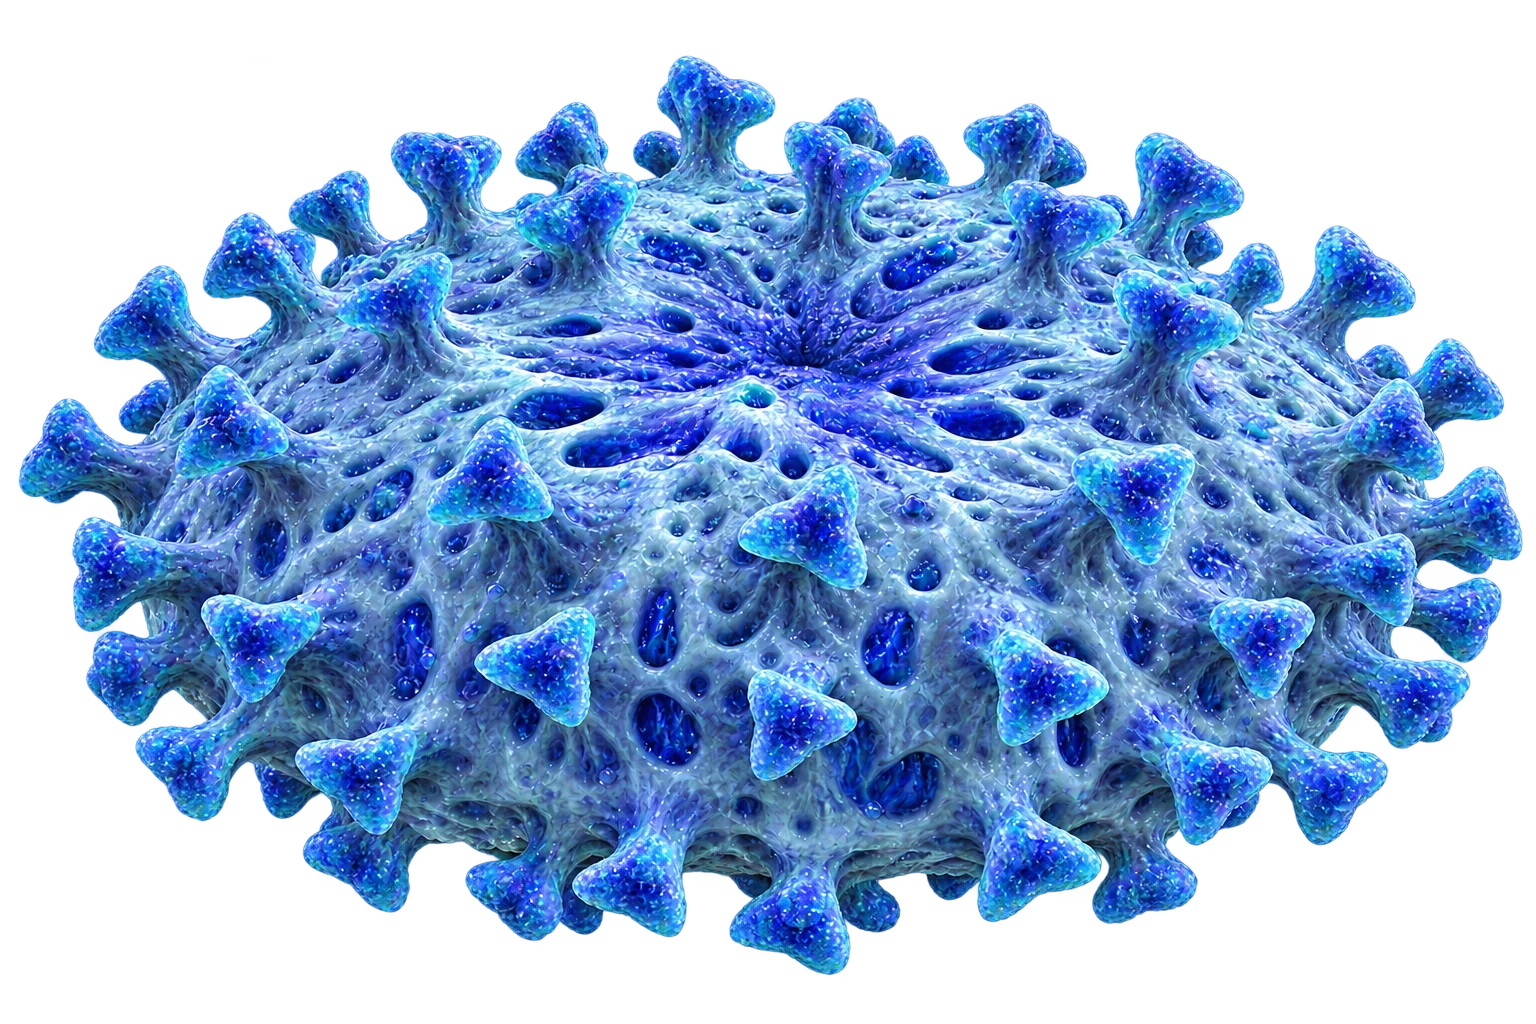
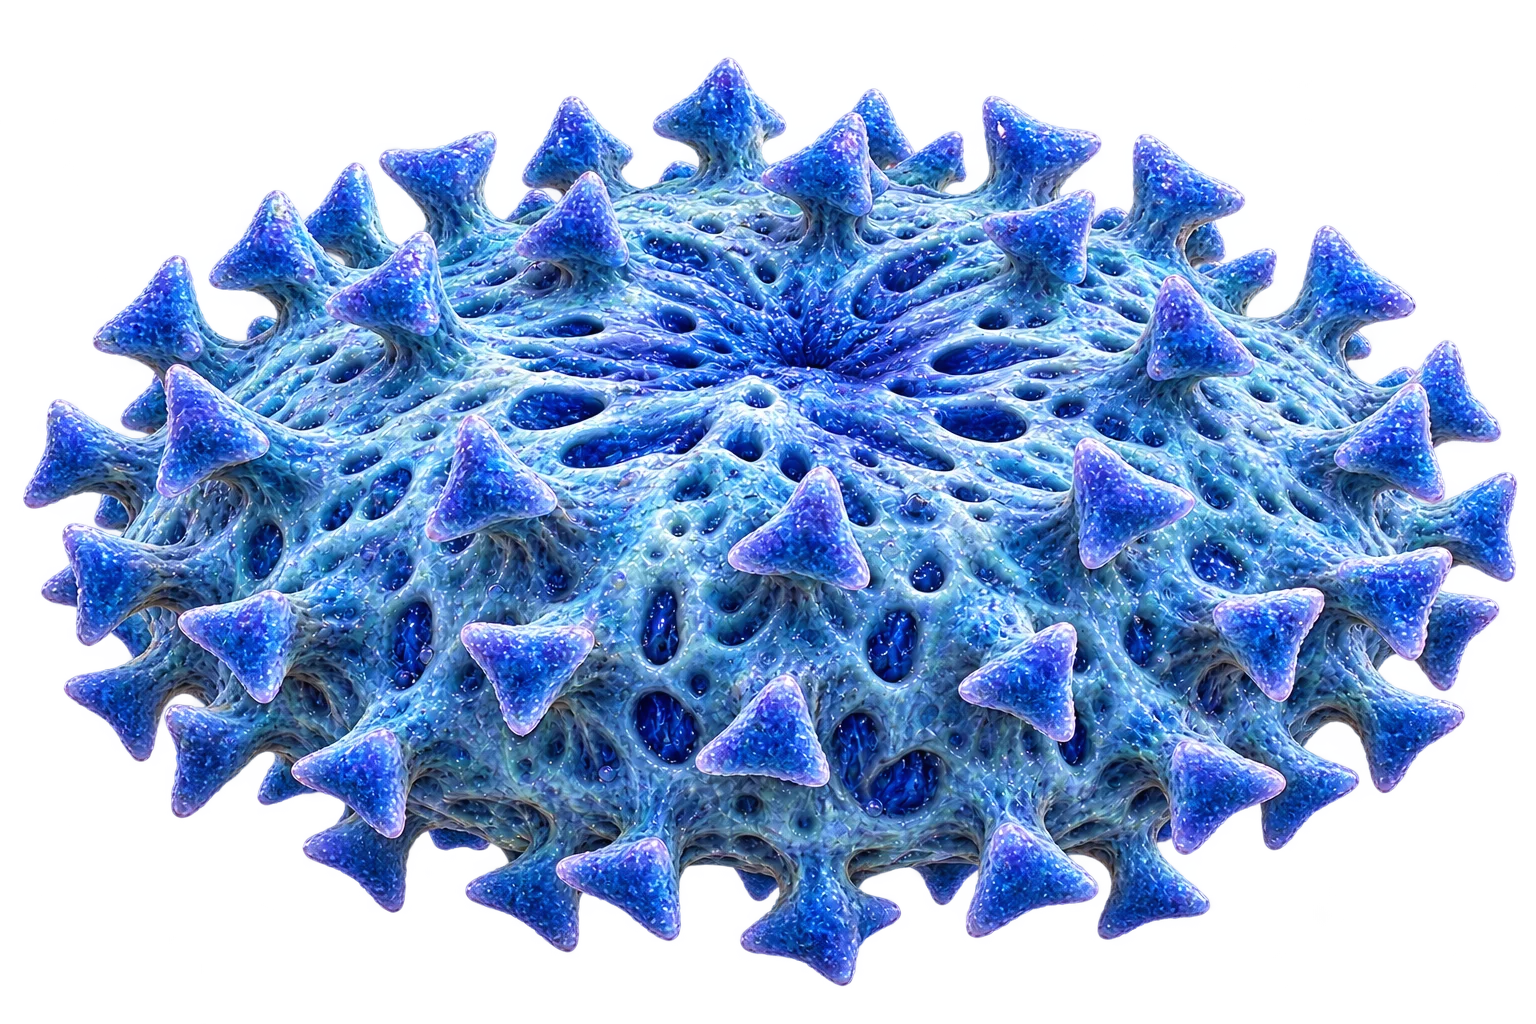
Differentiate alpha variant protrusions

diff --git a/docs/monsters.md b/docs/monsters.md
@@ -62,7 +62,7 @@
 | M015 | 匿龍・左塔ボス（固有名TBD） | 物語の敵 | 青年後半・左塔5階OVS-09 | 魔法のみ有効 | 未定 | M003共通意匠の戦闘個体。順序自由、右はM016。双頭意匠の具体図TBD | 未生成・設計枠 | #71 |
 | M016 | 匿龍・右塔ボス（固有名TBD） | 物語の敵 | 青年後半・右塔5階OVS-14 | アビリティのみ有効 | 未定 | M003共通意匠の戦闘個体。順序自由、左はM015。双頭意匠の具体図TBD | 未生成・設計枠 | #71 |
 | M017 | 荒波の触手 | 物語の敵（体内） | 体内ダンジョン・心臓。水の召喚獣S001の合体前 | 未定 | 未定 | 雑魚敵。葛飾北斎の浮世絵の波のように、触手のような先端へ伸びる白い荒波。各個体に足と中央があり、複数体が集まってS001となる | 生成済み・採用: `assets/images/enemies/M017.webp`（kako-jun承認 2026-10-19） | #130 |
-| M018 | アルファ株 | 物語の敵（体内） | 右手・左手・右足・左足のいずれか（未割当） | 未定 | 未定 | コロナ変異株の中ボス。M010と同系列、青色で三角形の突起 | 採用: `assets/images/enemies/M018.webp`（1536×1024、WebP品質85・alpha保持、kako-jun目視採用 2026-10-20） | 2026-10-20 kako-jun |
+| M018 | アルファ株 | 物語の敵（体内） | 右手・左手・右足・左足のいずれか（未割当） | 未定 | 未定 | コロナ変異株の中ボス。M010と同系列、青色で明瞭な三角形の突起 | 採用: `assets/images/enemies/M018.webp`（1536×1024、WebP品質85・alpha保持、作り直しをkako-jun目視採用 2026-10-20）。旧画像は `assets/images/enemies/M018-previous.webp` に保持 | 2026-10-20 kako-jun |
 | M019 | ベータ株 | 物語の敵（体内） | 右手・左手・右足・左足のいずれか（未割当） | 未定 | 未定 | コロナ変異株の中ボス。M010と同系列、紫色で丸みのある突起 | 採用: `assets/images/enemies/M019.webp`（1536×1024、WebP品質85・alpha保持、kako-jun目視採用 2026-10-20） | 2026-10-20 kako-jun |
 | M020 | ガンマ株 | 物語の敵（体内） | 右手・左手・右足・左足のいずれか（未割当） | 未定 | 未定 | コロナ変異株の中ボス。M010と同系列、金色で星形の突起 | 採用: `assets/images/enemies/M020.webp`（1536×1024、WebP品質85・alpha保持、kako-jun目視採用 2026-10-20） | 2026-10-20 kako-jun |
 | M021 | デルタ株 | 物語の敵（体内） | 右手・左手・右足・左足のいずれか（未割当） | 未定 | 未定 | コロナ変異株の中ボス。M010と同系列、緑色で先が分かれた突起 | 採用: `assets/images/enemies/M021.webp`（1536×1024、WebP品質85・alpha保持、kako-jun目視採用 2026-10-20） | 2026-10-20 kako-jun |
